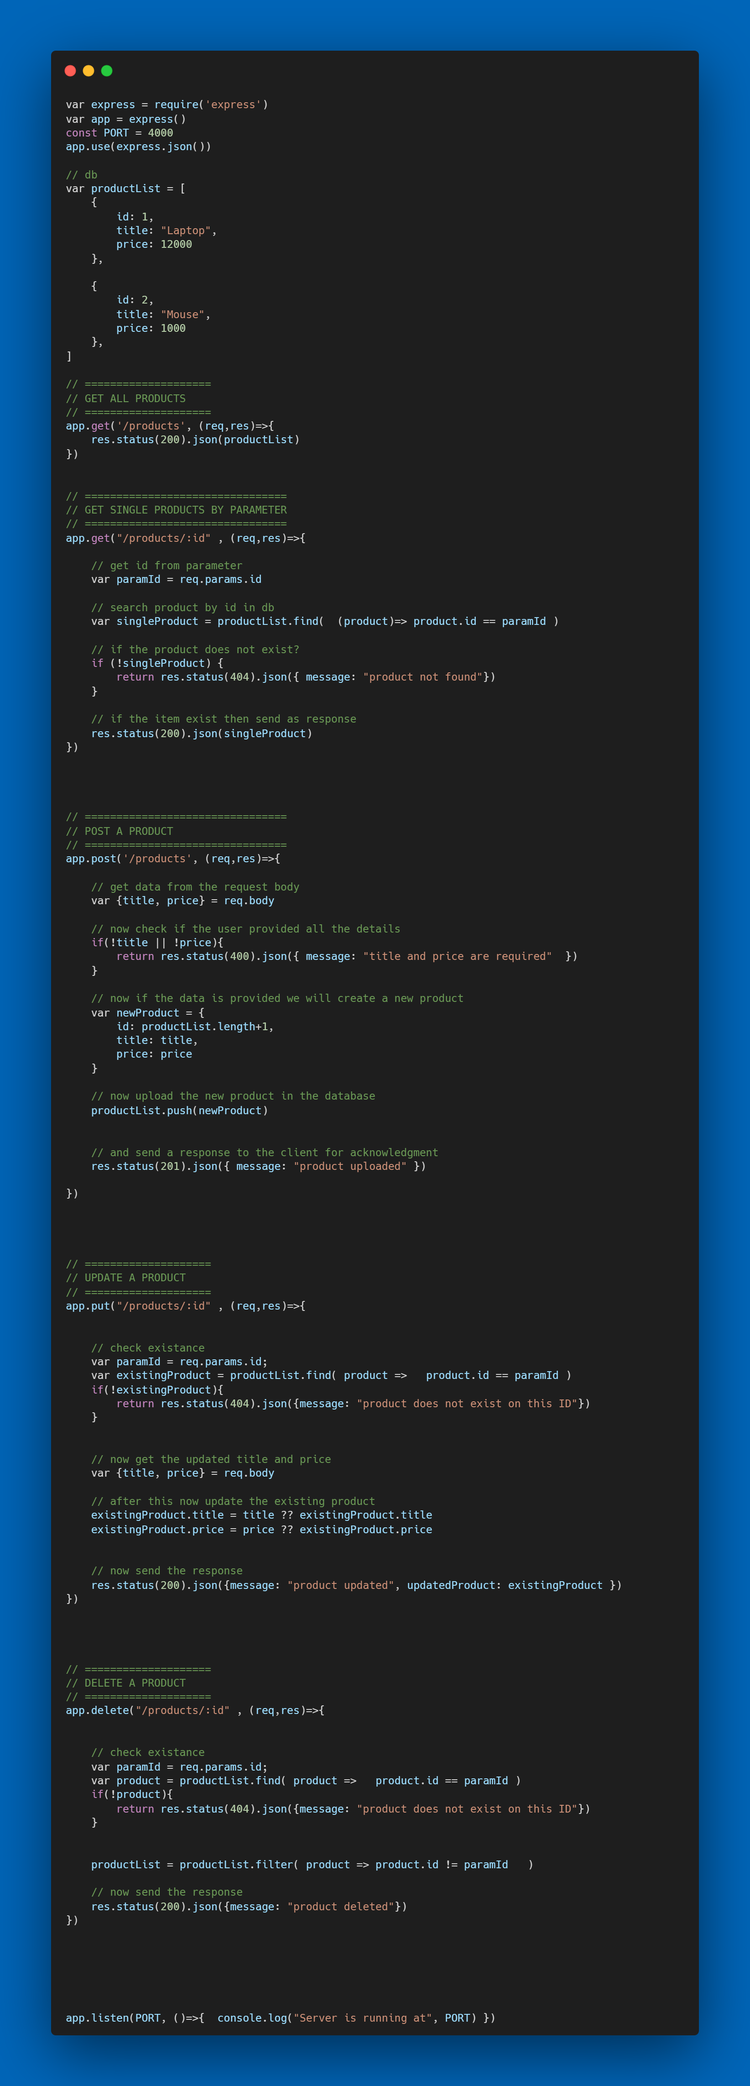
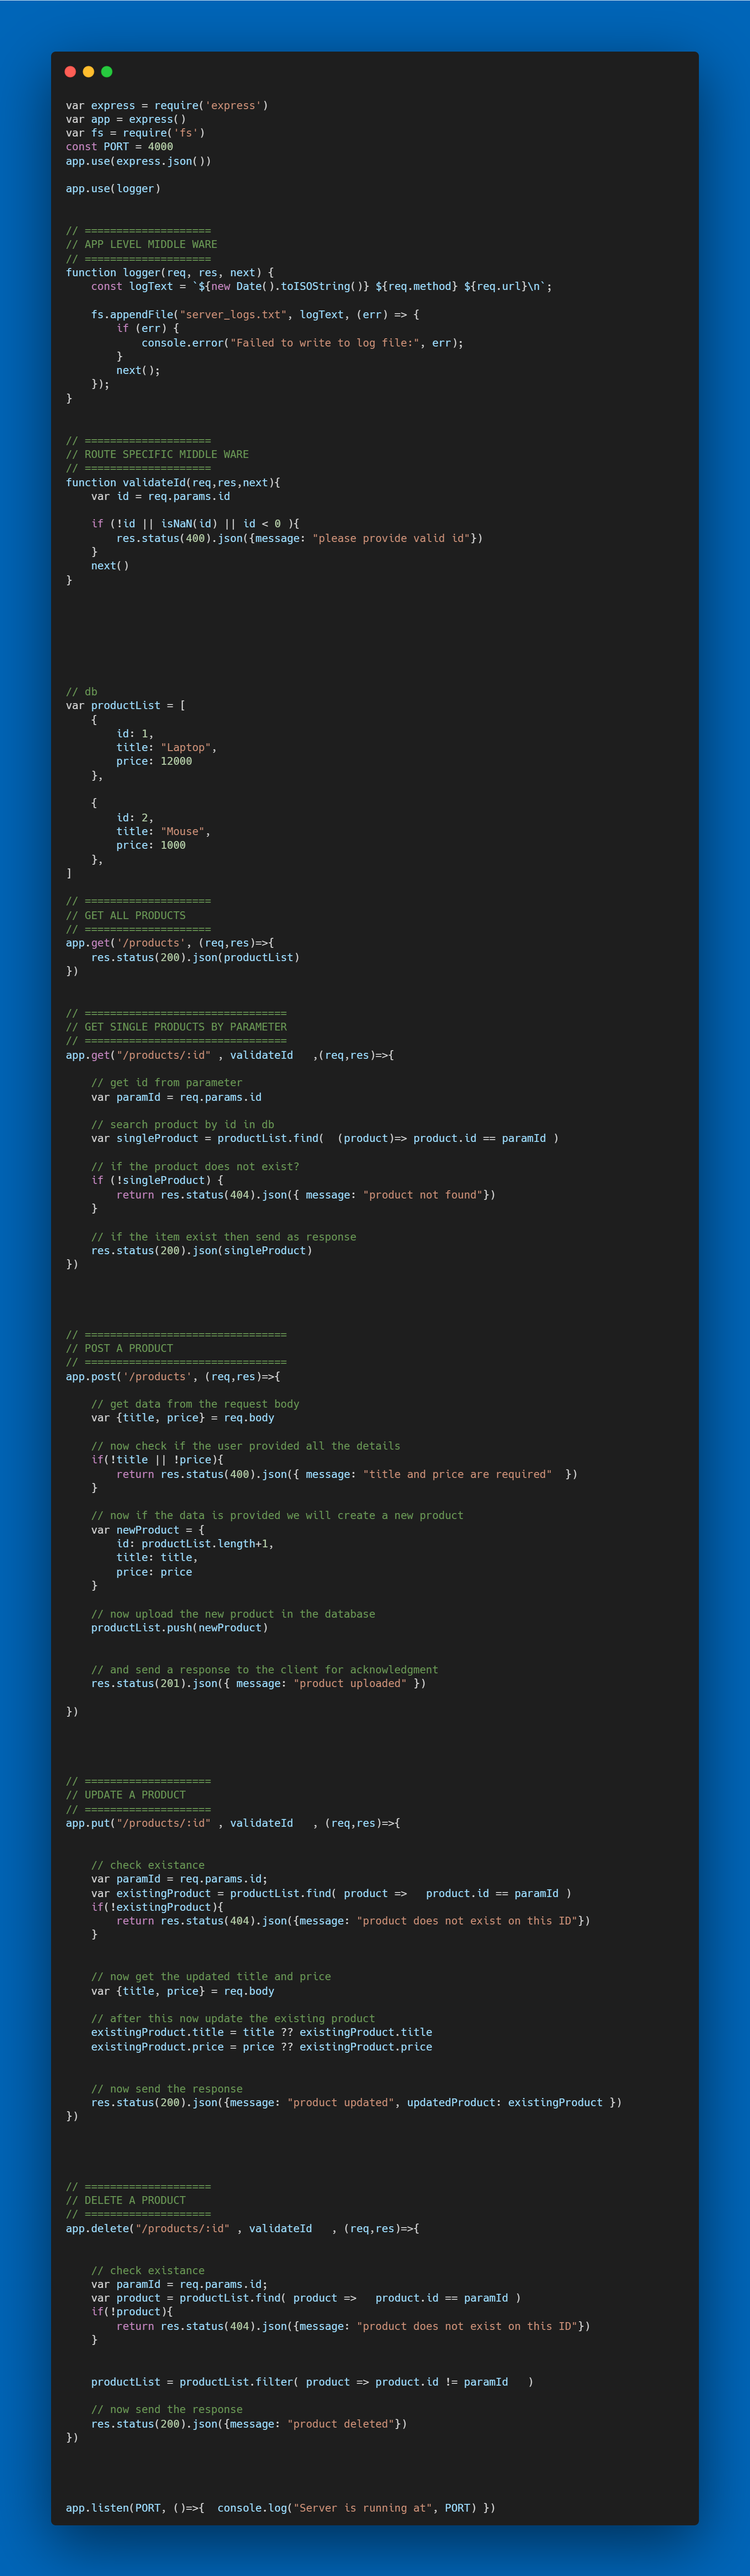
Update

diff --git a/server.js b/server.js
@@ -1,7 +1,34 @@
 var express = require('express')
 var app = express()
 const PORT = 4000
+var fs = require('fs');
 app.use(express.json())
+
+app.use(logger)
+
+
+// App Level Middle Ware
+function logger(req, res, next){
+    const logText = `${new Date().getDate().toString()} ${req.method} ${req.url} \n`;
+
+    fs.appendFile("server_logs.txt", logText, (err)=>{
+        if(err){
+            console.error("Failed to wrtie to log file: ", err)
+        }
+        next();
+    });
+}
+
+// Route Specific Middle Ware
+
+function validateId(req, res, next){
+    var id = req.params.id
+
+    if (!id || isNaN(id) || id<0){
+        res.status(400).json({message: "Please provide valid Id"})
+    }
+    next()
+}
 
 // Local DB
 var productList = [
@@ -74,3 +101,34 @@ app.post("/products", (req, res)=> {
 
 
 // Update a product
+app.put("/products/:id", (req, res)=>{
+
+    var paramId  = req.params.id;
+    var existingProduct  = productList.find( product => product.id == paramId)
+    if(!existingProduct){
+        return res.status(404).json({message: "Product does not exist on this Id"})
+    }
+
+    // Now get the updated title and price 
+    var {title, price} = req.body
+
+    // After this now update the existing product
+    existingProduct.title = title ?? existingProduct.title
+    existingProduct.price = title ?? existingProduct.price
+
+    // Now send the response 
+    res.status(200).json({message: "Product Updated", updatedProduct: existingProduct})
+})
+
+// Delete a Product
+app.delete("/products/:id", (req,res)=>{
+
+    // Check Existance
+    var paramId = req.params.id;
+    var product = productList.find(product => product.id != paramId)
+
+    // npw send the response
+    res.status(200).json({message: "Product deleted"})
+})
+
+app.listen(PORT, ()=>{ console.log("Server is running at", PORT)})
